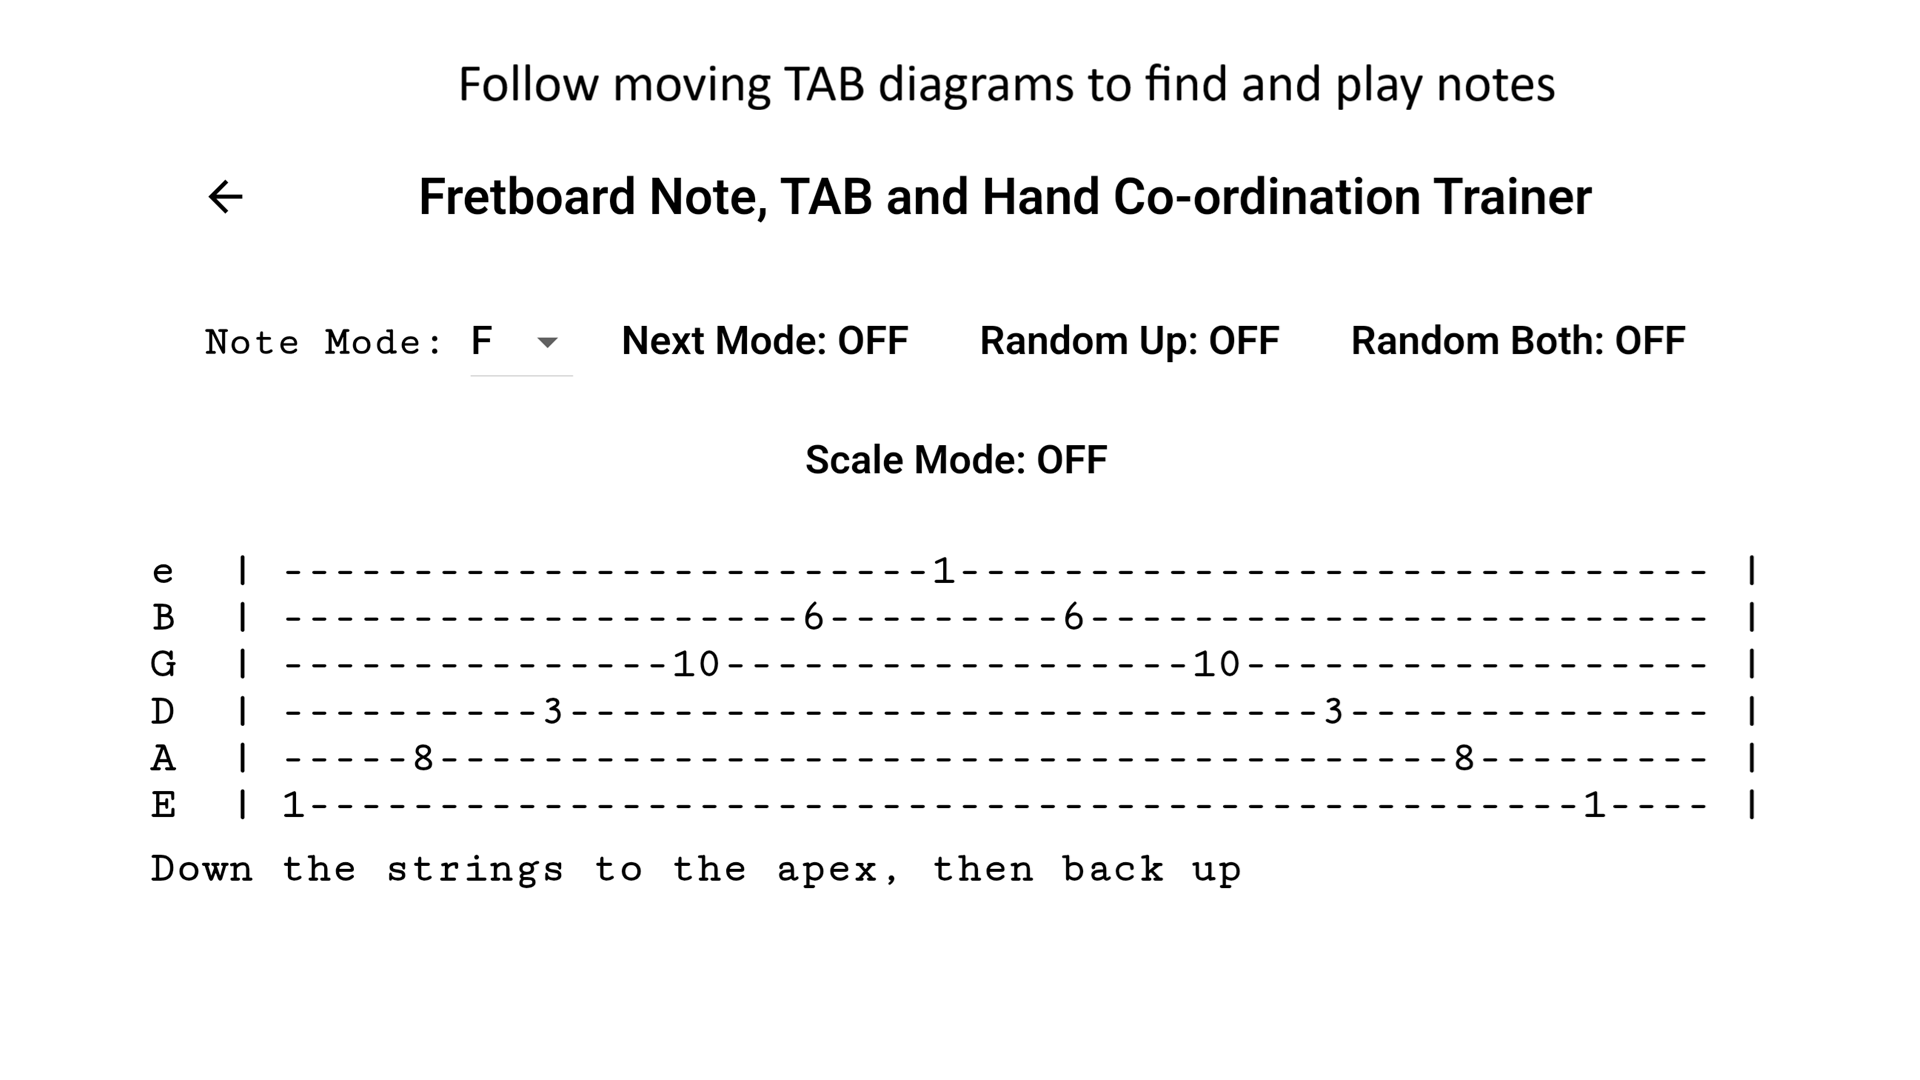
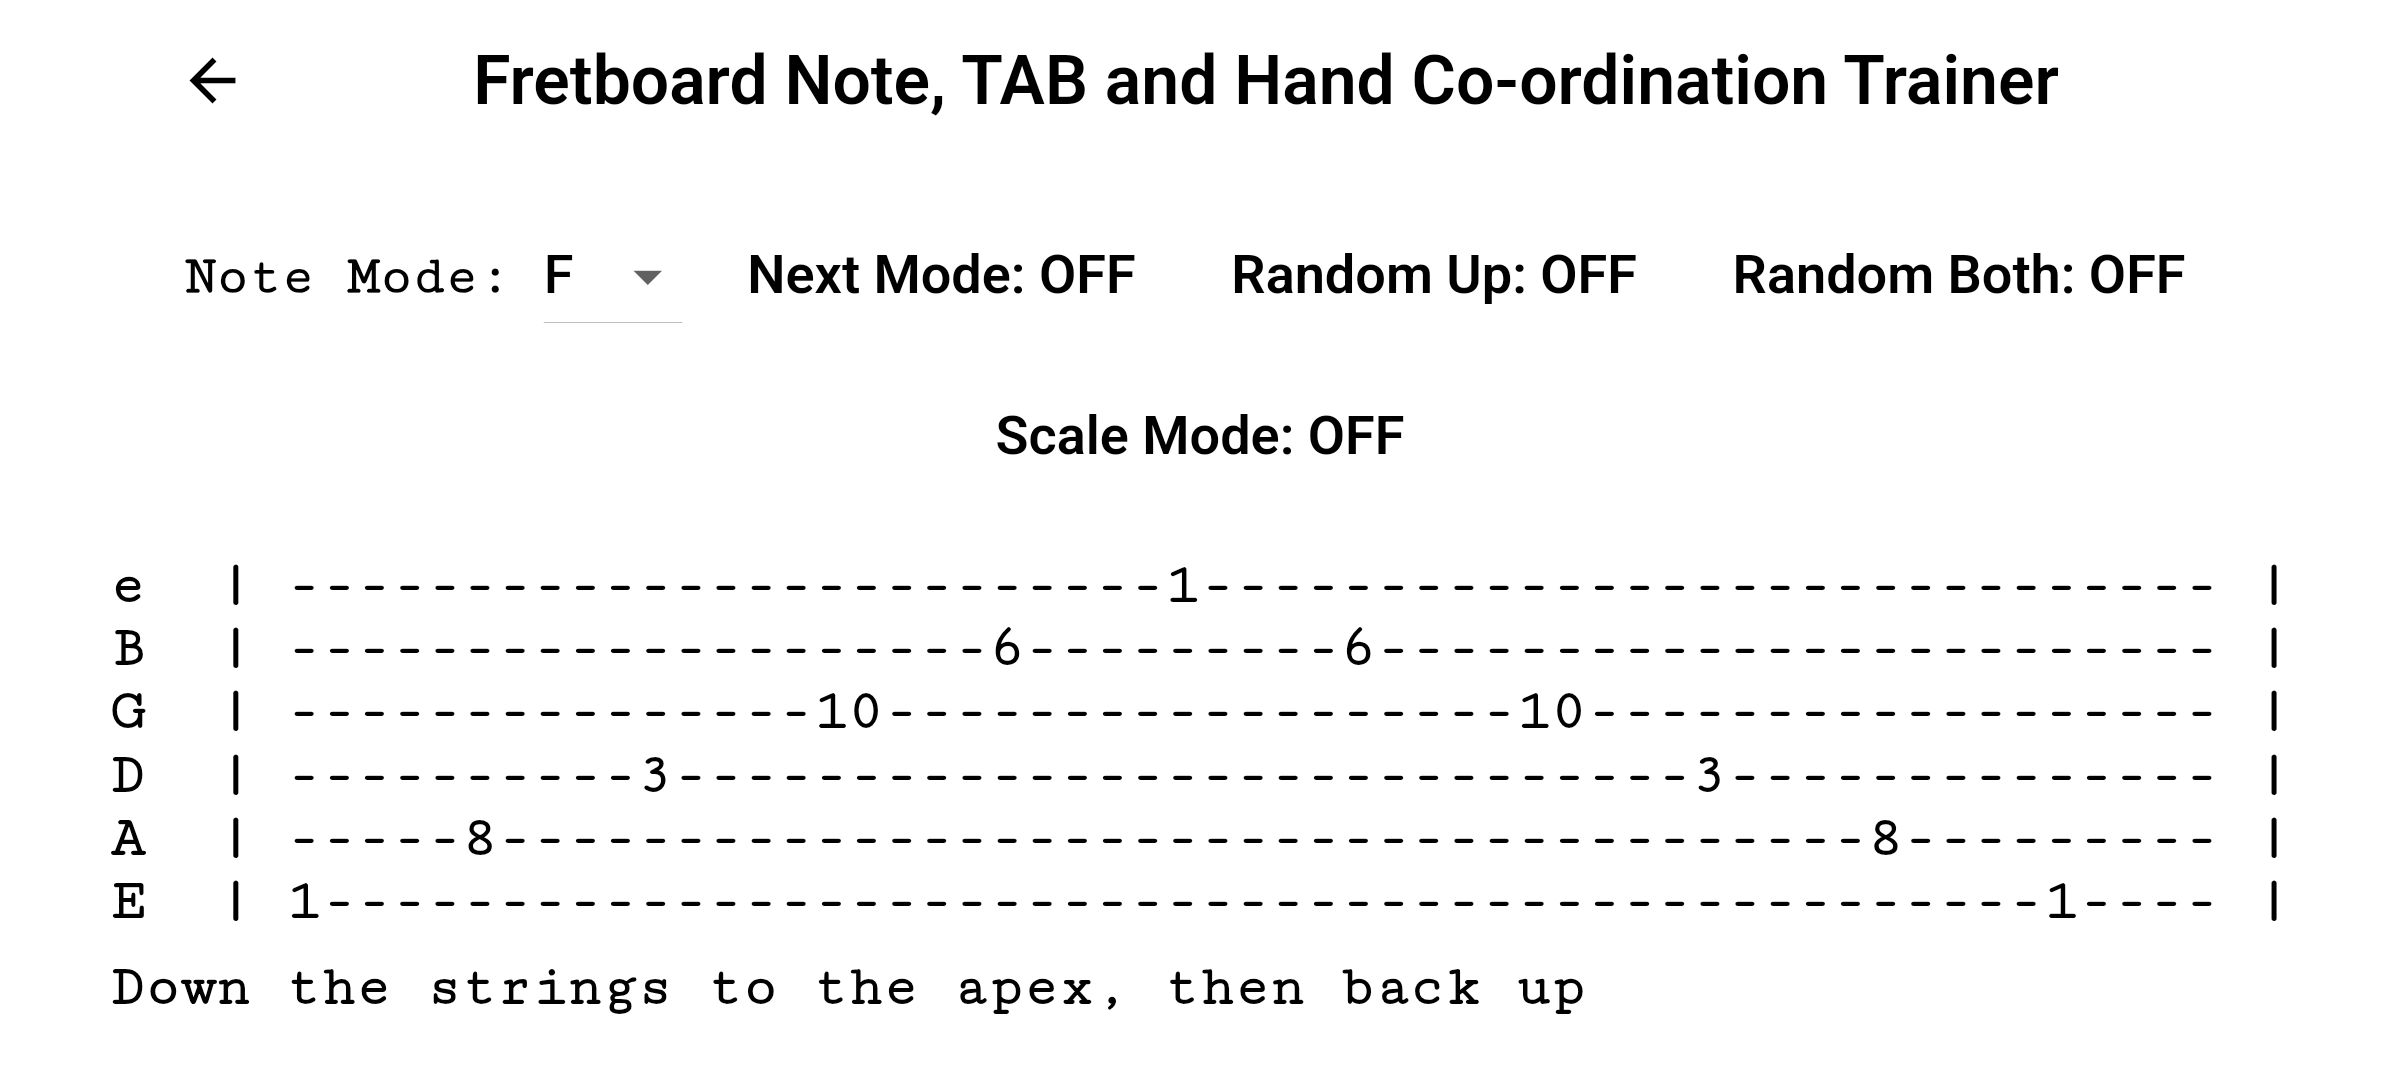
Update TAB trainer screenshots

diff --git a/fretboard-note-tab-trainer.html b/fretboard-note-tab-trainer.html
@@ -238,7 +238,9 @@
   <div class="content">
 
     <div class="image-column">
-      <img src="images/fretboard-note-tab-trainer-page.png" alt="Fretboard Note & TAB Trainer screenshot">
+      <img src="images/tab-1.png" alt="BestFret Guitar Fretboard Notes in TAB trainer exercise showing structured TAB practice">
+      <img src="images/tab-2.png" alt="BestFret Guitar Fretboard Notes in TAB trainer random note exercise">
+      <img src="images/tab-3.png" alt="BestFret Guitar Fretboard Notes in TAB trainer scale exercise">
     </div>
 
     <div class="text-column">
@@ -307,8 +309,9 @@
 </div>
 
 <footer>
-  © BestFret
+  &copy; BestFret
 </footer>
 
 </body>
 </html>
+
